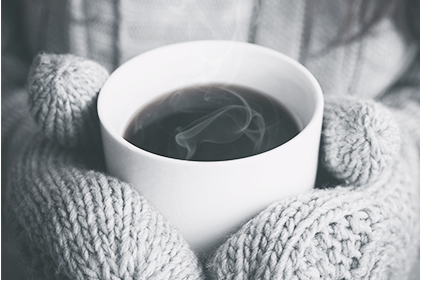
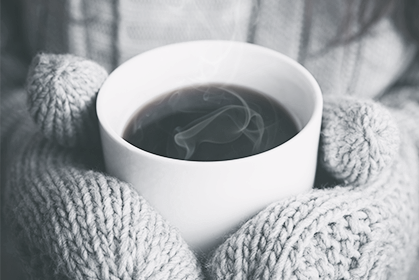
added style.css

diff --git a/hw-01-02/index.html b/hw-01-02/index.html
@@ -3,70 +3,104 @@
 
 <head>
 	<meta charset="UTF-8">
+	<meta name="viewport" content="width=device-width, initial-scale=1.0">
+	<meta http-equiv="X-UA-Compatible" content="ie=edge">
+	<link rel="stylesheet" href="./css/normalize.css">
 	<title>Home Work 01</title>
+	<link href="https://fonts.googleapis.com/css?family=Playfair+Display" rel="stylesheet">
+	<link rel="stylesheet" href="./css/style.css">
 </head>
 
 <body>
 	<div class="wrapper">
-		<header>
-			<nav>
-				<ul>
-					<li><a href="#">lifestyle</a></li>
-					<li><a href="#">photodiary</a></li>
-					<li><a href="#">music</a></li>
-					<li><a href="#">travel</a></li>
+
+		<header class="mustheader">
+			<nav class="mustheader_nav">
+				<ul class="nav_list">
+					<li class="nav_list_item"><a class="link_item" href="#">lifestyle</a></li>
+					<li class="nav_list_item"><a class="link_item" href="#">photodiary</a></li>
+					<li class="nav_list_item"><a class="link_item" href="#">music</a></li>
+					<li class="nav_list_item"><a class="link_item" href="#">travel</a></li>
 				</ul>
 			</nav>
 		</header>
-		<article>
-			<img src="./img/img1.png" alt="">
-			<p>lifestyle</p>
-			<h3>More than just a music festival</h3>
-			<p>Lorem ipsum dolor sit amet, consectetur adipisicing elit. Nobis ab repellat odit delectus quo repudiandae
-			provident voluptates, assumenda placeat earum aut tempora sint, ipsum, quisquam libero atque, autem rem molestias
-			vitae est cumque obcaecati. Fugit maiores odit, illum voluptas ad, autem eius placeat, ea laborum delectus sequi
-			cupiditate doloribus, laudantium? Assumenda vero expedita, ab, numquam consectetur cumque harum, corporis
-			voluptatem, deserunt reiciendis saepe fugit neque temporibus. Alias voluptates amet quis aspernatur maxime quod
-			repellendus ullam dignissimos voluptatum? Delectus tenetur autem quae, ab iste soluta voluptatum repellendus ipsam
-			assumenda necessitatibus magni fugit quisquam harum maiores voluptatem nulla nesciunt officiis sint praesentium.</p>
-		</article>
-		<article>
-			<img src="./img/img2.png" alt="">
-			<p>lifestyle</p>
-			<h3>Life tastes better with coffee</h3>
-			<p>Lorem ipsum dolor sit amet, consectetur adipisicing elit. Expedita repudiandae sint, aliquid amet tempore
-			perspiciatis, repellat accusantium animi eum. Ut molestiae earum recusandae in, dolores debitis sunt neque. A ex
-			tenetur molestias explicabo quaerat laudantium enim ipsam modi exercitationem aliquam, eos delectus? Maxime vero
-			voluptatum voluptas, quidem, similique a suscipit minus exercitationem dolore, totam necessitatibus molestiae. Eius
-			cupiditate repellendus non id est soluta consequatur animi, amet a iusto voluptas et laborum odio expedita, impedit
-			ut sed vel itaque atque numquam similique veniam obcaecati. Unde assumenda id optio nihil eos, provident ut,
-			reiciendis delectus fugiat! Accusantium earum, autem provident! Sit, in.</p>
-		</article>
-		<article>
-			<img src="./img/img3.png" alt="">
-			<p>photodiary</p>
-			<h3>American dream</h3>
-			<p>Lorem ipsum dolor sit amet, consectetur adipisicing elit. Earum assumenda, nemo doloremque eius, necessitatibus
-			velit illo repellat consequatur, vitae recusandae veritatis ipsam atque. Cumque, odio doloremque inventore fugit,
-			temporibus vel ea eaque asperiores blanditiis odit itaque magni est. Tenetur dolorum voluptates nam maxime
-			consectetur, dolore, aut cum expedita iusto quasi libero iste excepturi deleniti pariatur veritatis reiciendis
-			sequi. Doloribus, enim, soluta. Mollitia, rerum, dolores. Quia voluptatum, veritatis, ut eius molestiae voluptate,
-			deserunt sunt aut consectetur blanditiis harum ipsum saepe ad debitis quae a hic cum! Deleniti, atque, debitis enim
-			culpa voluptatum inventore sit perspiciatis in, nesciunt vero maiores quae ipsum.</p>
-		</article>
-		<article>
-			<img src="./img/img4.png" alt="">
-			<p>photodiary</p>
-			<h3>A day exploring the Alps</h3>
-			<p>Lorem ipsum dolor sit amet, consectetur adipisicing elit. Nemo tempore corporis, officia repellat aut ut
-			distinctio qui numquam voluptatibus. Similique dolorum officiis, earum voluptatum rem repudiandae vero inventore
-			velit maxime labore necessitatibus cum accusamus perspiciatis, unde a est rerum sit libero, tempora aperiam
-			corrupti. Perspiciatis architecto explicabo asperiores eos tempore nam, modi qui in fuga minus illum laudantium
-			quia nemo natus rem tempora voluptas a odio dolore officiis ut, autem dolorem. Perferendis voluptates ut a delectus
-			quae ipsa quidem nemo ad praesentium accusamus esse, eum maiores illum, consectetur architecto nisi! Asperiores
-			recusandae eveniet quas quidem, ex, impedit exercitationem atque doloribus.</p>
-		</article>
-		<a href="#">load more</a>
+	</div>
+	
+	<div class="article_wrapper">
+		<ul class="article_item">
+			<li class="article_list_item">
+				<article class="mustarticle_lifestyle">
+					<img class="article_img" src="./img/img1.png" width="420" height="280" alt="">
+					<p class="under_img_item">lifestyle</p>
+					<h3 class="title_name">More than just a music festival</h3>
+					<p class="paragraph_item">Lorem ipsum dolor sit amet, consectetur adipisicing elit. Nobis ab repellat odit
+						delectus quo repudiandae
+						provident voluptates, assumenda placeat earum aut tempora sint, ipsum, quisquam libero atque, autem rem molestias
+						vitae est cumque obcaecati. Fugit maiores odit, illum voluptas ad, autem eius placeat, ea laborum delectus sequi
+						cupiditate doloribus, laudantium? Assumenda vero expedita, ab, numquam consectetur cumque harum, corporis
+						voluptatem, deserunt reiciendis saepe fugit neque temporibus. Alias voluptates amet quis aspernatur maxime quod
+						repellendus ullam dignissimos voluptatum? Delectus tenetur autem quae, ab iste soluta voluptatum repellendus
+						ipsam
+						assumenda necessitatibus magni fugit quisquam harum maiores voluptatem nulla nesciunt officiis sint praesentium.</p>
+				</article>
+			</li>
+			<li class="article_list_item">
+				<article class="mustarticle_lifestyle">
+					<img class="article_img" src="./img/img2.png" width="420" height="280" alt="">
+					<p class="under_img_item">lifestyle</p>
+					<h3 class="title_name">Life tastes better with coffee</h3>
+					<p class="paragraph_item">Lorem ipsum dolor sit amet, consectetur adipisicing elit. Expedita repudiandae sint,
+						aliquid amet tempore
+						perspiciatis, repellat accusantium animi eum. Ut molestiae earum recusandae in, dolores debitis sunt neque. A ex
+						tenetur molestias explicabo quaerat laudantium enim ipsam modi exercitationem aliquam, eos delectus? Maxime vero
+						voluptatum voluptas, quidem, similique a suscipit minus exercitationem dolore, totam necessitatibus molestiae.
+						Eius
+						cupiditate repellendus non id est soluta consequatur animi, amet a iusto voluptas et laborum odio expedita,
+						impedit
+						ut sed vel itaque atque numquam similique veniam obcaecati. Unde assumenda id optio nihil eos, provident ut,
+						reiciendis delectus fugiat! Accusantium earum, autem provident! Sit, in.</p>
+				</article>
+			</li>
+			<li class="article_list_item">
+				<article class="mustarticle">
+					<img class="article_img" src="./img/img3.png" width="420" height="280" alt="">
+					<p class="under_img_item">photodiary</p>
+					<h3 class="title_name">American dream</h3>
+					<p class="paragraph_item">Lorem ipsum dolor sit amet, consectetur adipisicing elit. Earum assumenda, nemo
+						doloremque eius, necessitatibus
+						velit illo repellat consequatur, vitae recusandae veritatis ipsam atque. Cumque, odio doloremque inventore fugit,
+						temporibus vel ea eaque asperiores blanditiis odit itaque magni est. Tenetur dolorum voluptates nam maxime
+						consectetur, dolore, aut cum expedita iusto quasi libero iste excepturi deleniti pariatur veritatis reiciendis
+						sequi. Doloribus, enim, soluta. Mollitia, rerum, dolores. Quia voluptatum, veritatis, ut eius molestiae
+						voluptate,
+						deserunt sunt aut consectetur blanditiis harum ipsum saepe ad debitis quae a hic cum! Deleniti, atque, debitis
+						enim
+						culpa voluptatum inventore sit perspiciatis in, nesciunt vero maiores quae ipsum.</p>
+				</article>
+			</li>
+			<li class="article_list_item">
+				<article class="mustarticle">
+					<img class="article_img" src="./img/img4.png" width="420" height="280" alt="">
+					<p class="under_img_item">photodiary</p>
+					<h3 class="title_name">A day exploring the Alps</h3>
+					<p class="paragraph_item">Lorem ipsum dolor sit amet, consectetur adipisicing elit. Nemo tempore corporis, officia
+						repellat aut ut
+						distinctio qui numquam voluptatibus. Similique dolorum officiis, earum voluptatum rem repudiandae vero inventore
+						velit maxime labore necessitatibus cum accusamus perspiciatis, unde a est rerum sit libero, tempora aperiam
+						corrupti. Perspiciatis architecto explicabo asperiores eos tempore nam, modi qui in fuga minus illum laudantium
+						quia nemo natus rem tempora voluptas a odio dolore officiis ut, autem dolorem. Perferendis voluptates ut a
+						delectus
+						quae ipsa quidem nemo ad praesentium accusamus esse, eum maiores illum, consectetur architecto nisi! Asperiores
+						recusandae eveniet quas quidem, ex, impedit exercitationem atque doloribus.</p>
+				</article>
+			</li>
+		</ul>
+		
+		<ul class="link_load_wrapper">
+			<li><a class="link_load_more" href="#">Load more</a></li>
+		</ul>
+		
 	</div>
 </body>
+
 </html>

diff --git a/hw-01-02/css/style.css b/hw-01-02/css/style.css
@@ -1,0 +1,104 @@
+html {
+ box-sizing: border-box;
+}
+
+*,
+*::after,
+*::before {
+ box-sizing: inherit;
+}
+
+ body {
+  font-family: 'Playfair Display', serif;
+  color: #626262;
+  font-size: 16px;
+  background-color: #ffffff;
+  margin: 0 auto;
+}
+
+/* img {
+ display: block;
+ max-width: 100%;
+ height: auto;
+} */
+
+.nav_list {
+  text-align: center;
+  /* список центрирован по центру */
+  padding: 76px 0 78px 0;
+}
+
+.nav_list_item {
+ display: inline-block;
+ margin-right: 100px;
+ list-style: none;
+}
+
+.nav_list_item:last-child {
+ margin-right: 0;
+}
+
+.link_item {
+ display: inline-block;
+ color: #626262;
+ text-decoration: none;
+ text-transform: uppercase;
+ margin: 0 auto;
+}
+
+/* article */
+
+.article_wrapper {
+  display: inline-block;
+  margin: 0 auto;
+ }
+
+.article_item {
+  text-align: center;
+  margin: 0;
+  padding: 0;
+}
+
+.article_list_item {
+  display: inline-block;
+ list-style: none;
+ font-size: 14px;
+ width: 420px;
+ margin-right: 60px;
+ margin-bottom: 126px;
+ 
+}
+
+p {
+  text-align: left;
+  line-height: 2;
+}
+
+.title_name {
+  text-align: left;
+  font-size: 28px;
+  font-weight: 400;
+}
+
+.under_img_item {
+  text-transform: uppercase;
+  font-size: 12px;
+}
+
+
+/* link */
+
+.link_load_wrapper {
+  text-align: center;
+  list-style: none;
+}
+
+.link_load_more {
+ display: inline-block;
+ color: #626262;
+ text-decoration: none;
+ border-style: solid;
+ border-width: 1px;
+ padding: 20px 32px;
+ color: #626262;
+}
